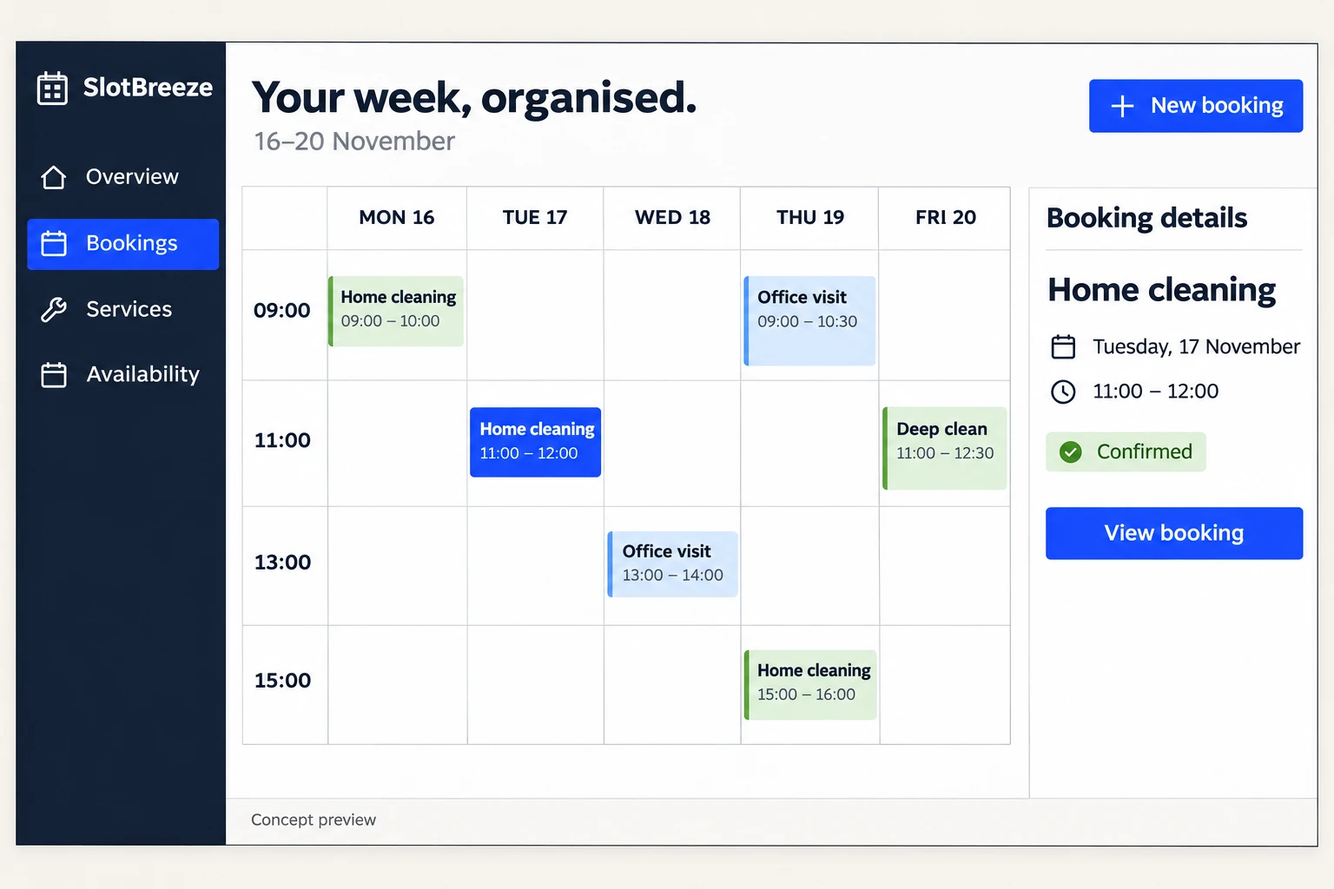
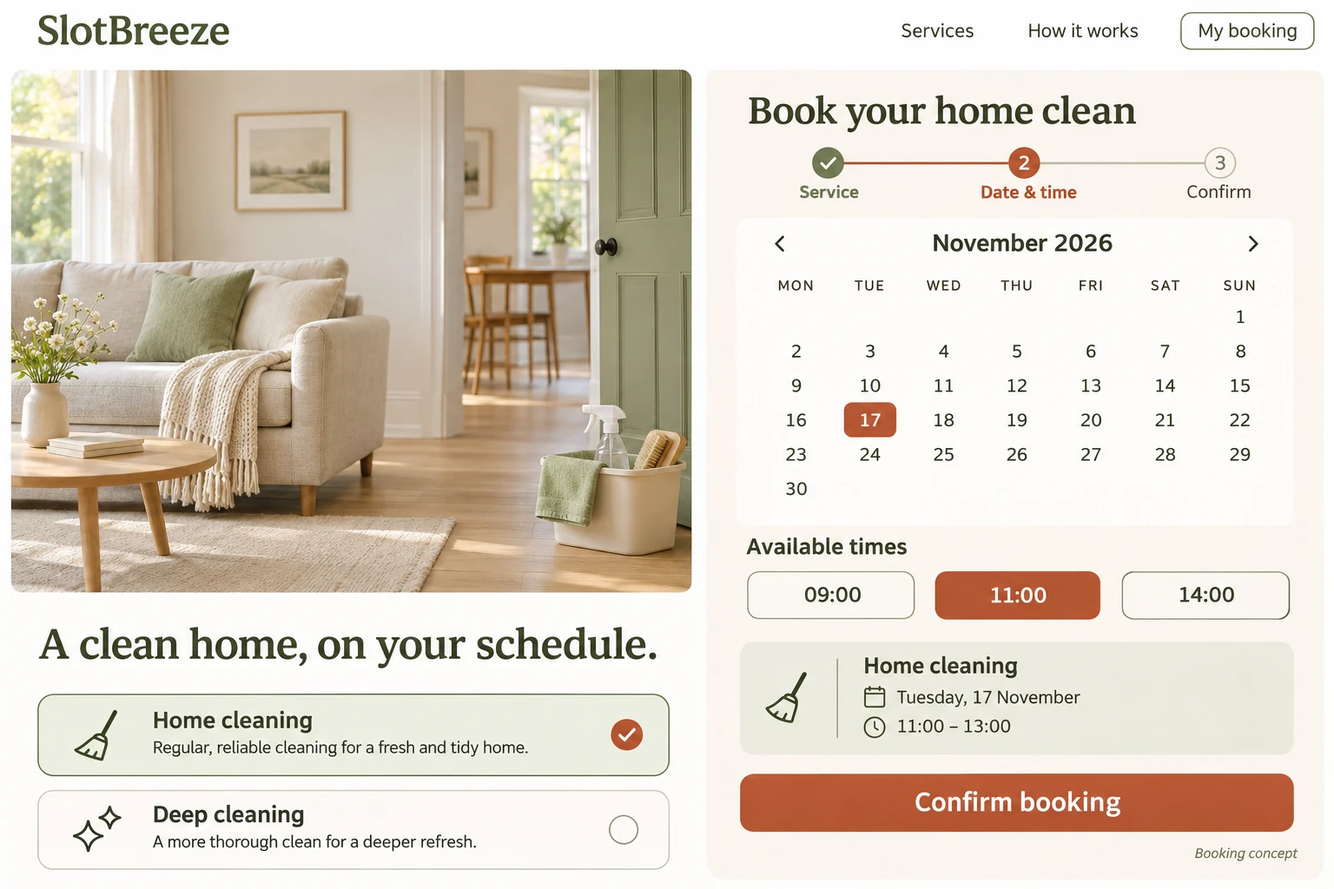
Give each project a distinct visual focused on its purpose

diff --git a/src/components/ui/ProjectPreview.tsx b/src/components/ui/ProjectPreview.tsx
@@ -5,19 +5,19 @@ import styles from "./project-content.module.css";
 const artwork: Record<Project["theme"], { file: string; alt: string }> = {
   booking: {
     file: "slotbreeze",
-    alt: "SlotBreeze concept: a weekly service calendar with appointment blocks and booking details.",
+    alt: "SlotBreeze concept: a home-service website with cleaning options, a date picker, available times, and booking confirmation.",
   },
   approval: {
     file: "proofhuddle",
-    alt: "ProofHuddle concept: a website design proof beside client feedback, version history, and approval actions.",
+    alt: "ProofHuddle concept: a design poster with numbered feedback pins, client comments, version history, and approval actions.",
   },
   enquiry: {
     file: "enquirywing",
-    alt: "EnquiryWing concept: an incoming enquiry, an organised brief, and a reply draft awaiting human review.",
+    alt: "EnquiryWing concept: an incoming message becomes an organised brief and a suggested reply awaiting human approval.",
   },
   monitoring: {
     file: "uptimeperch",
-    alt: "UptimePerch concept: website availability checks, response times, and incident and release history.",
+    alt: "UptimePerch concept: a dark monitoring console showing service availability, response times, incidents, and recovery.",
   },
 };
 

diff --git a/docs/project-artwork.md b/docs/project-artwork.md
@@ -1,16 +1,28 @@
 # Project concept artwork
 
-Generated on 17 November 2026 with the built-in image generation tool. These images illustrate planned interfaces for projects in development; they are not screenshots of released software. The same four artworks are used on homepage and directory cards and at larger size inside project detail previews.
+Generated on 17 November 2026 with the built-in image generation tool. These images illustrate projects in development; they are not screenshots of released software. Each project has its own visual identity and a composition chosen to explain its main purpose. The images appear on homepage and directory cards and at larger size inside project detail previews.
 
 ## Assets
 
-Final project images live in `public/projects/`. Each project has a `-concept.webp` version (1536 x 1024) and a `-concept-640.webp` card version (640 x 427). The component uses explicit dimensions, descriptive alternative text, lazy loading, and static WebP delivery, keeping images independent of a runtime optimisation service.
+Final images live in `public/projects/`. Each project has a `-concept.webp` image (1536 x 1024) and a `-concept-640.webp` card image (640 x 427). Explicit dimensions, descriptive alternative text, lazy loading, and static WebP delivery preserve layout and keep image delivery independent of a runtime optimisation service.
 
-The original generated PNGs are preserved under the local, ignored `artifacts/project-artwork/source/` directory. Only the optimised WebP assets and this prompt record are intended for version control. Private project PDFs remain excluded.
+| Project | Full image | Card image |
+| --- | --- | --- |
+| SlotBreeze | `public/projects/slotbreeze-concept.webp` | `public/projects/slotbreeze-concept-640.webp` |
+| ProofHuddle | `public/projects/proofhuddle-concept.webp` | `public/projects/proofhuddle-concept-640.webp` |
+| EnquiryWing | `public/projects/enquirywing-concept.webp` | `public/projects/enquirywing-concept-640.webp` |
+| UptimePerch | `public/projects/uptimeperch-concept.webp` | `public/projects/uptimeperch-concept-640.webp` |
+
+Original generated PNGs are preserved locally under the ignored `artifacts/project-artwork-v2/source/` directory. Only the optimised WebP assets and this prompt record are intended for version control. Private project PDFs remain excluded.
 
 ## Art direction
 
-Restrained, front-facing interface studies with a warm paper background, navy navigation, cobalt actions, readable typography, deliberate spacing, and workflow-specific details. No stock devices, floating UI fragments, decorative 3D objects, or neon effects.
+- SlotBreeze: a warm cream, sage, and terracotta home-service website showing the customer choosing a service, date, and available time before confirming a booking.
+- ProofHuddle: a charcoal and burnt-orange creative review workspace with a poster proof, anchored feedback, version context, and an explicit approval decision.
+- EnquiryWing: a lavender and plum workflow showing the original enquiry, extracted facts, missing details, a suggested response, and human approval.
+- UptimePerch: a dark forest monitoring console showing observed service health, response times, an interruption, recovery, and release context.
+
+The project subject takes priority over matching the portfolio website's palette. All visuals remain labelled as illustrative concepts, and all four projects remain in development.
 
 ## Final generation prompts
 
@@ -18,34 +30,48 @@ Restrained, front-facing interface studies with a warm paper background, navy na
 
 ```text
 Use case: ui-mockup.
-Asset type: a landscape portfolio project image for SanoraWorks, used both as a thumbnail and as a large illustrative interface concept.
-Create a carefully designed, credible software interface, photographed nowhere: a perfectly front-facing, flat high-resolution digital design. Landscape 3:2 composition. The application fills almost the whole image with a narrow 4 percent warm-paper surround, a crisp hairline outer border, and just a subtle contact shadow. The visual quality should come from exceptional typography, deliberate spacing, well aligned columns, strong information hierarchy, and useful details. Editorial restraint. Warm off-white #F5F4EF background, clean white panels, very dark navy #172337 text, vivid cobalt #2D4FFF for selected actions, muted slate, tiny sage green and amber status accents only when meaningful. Use straightforward modern humanist sans-serif type, with small monospaced dates and times. Sharp legible typography. Mostly square corners or at most 4px radius. Realistic believable sample data but no personal contact information. Avoid decorative gradients, dark sci-fi dashboards, neon glow, glassmorphism, floating UI shards, isometric/perspective views, laptops or phones, stock photos, 3D objects, mascots, sparkles, giant meaningless KPI numbers, fake enterprise logos, watermarks, illegible lorem ipsum, and excessive pill cards. Do not place marketing slogans outside the application. This is an independent product concept, not a claim of a released product.
-Subject: SlotBreeze, service appointment booking for a small home-service company. Exact product name "SlotBreeze" in the top left beside a simple four-square calendar mark. A slim navy left navigation with readable labels "Overview", "Bookings", "Services", "Availability". Main warm white workspace is dominated by a beautifully proportioned weekly appointment calendar, Monday through Friday, with four visible time rows. Heading "Your week, organised." and a small date "16–20 November". Calendar columns "MON 16", "TUE 17", "WED 18", "THU 19", "FRI 20"; time labels "09:00", "11:00", "13:00", "15:00". Six restrained appointment blocks, each spanning plausible time ranges, labelled "Home cleaning", "Deep clean", "Office visit". Leave substantial empty calendar space. Cobalt one selected appointment, others very pale blue and sage. Right-hand narrow details panel "Booking details", "Home cleaning", "Tuesday, 17 November", "11:00 – 12:00", a small status "Confirmed", and a clean primary button "View booking". Top right small "New booking" action. Very small "Concept preview" label in application footer. Compose for instant recognition as booking software at thumbnail size; the calendar is the hero. Exact short text, no additional sprawling copy.
+Asset type: a project-specific landscape image for a software portfolio, reused in a thumbnail and a large illustrative product preview.
+Create a complete original, carefully art-directed 1536 x 1024 landscape digital product visual, 3:2 aspect ratio. It must communicate the product's actual purpose at a glance. Use a flat front-facing interface, edge-to-edge with a narrow 2 percent surround. This is a designed software concept, not an actual released application screenshot. Information hierarchy, precise readable typography, thoughtful spacing, realistic workflow content, and original graphic design are essential. No need to match a blue portfolio website. No generic common dashboard template, no pointless KPI blocks, no floating UI shards, no device frames, no laptops, no people with malformed hands, no robots, no AI star symbols, no glowing particles, no glassmorphism, no decorative rainbow gradients, no random objects, no fake corporate logos, no watermark. Use the exact product name correctly. Keep body copy short and legible. Do not add a promotional headline outside the application.
+Project: SlotBreeze, a service business website with online appointment booking. Show the CUSTOMER booking experience, not an internal calendar dashboard.
+Visual identity: warm cream, muted sage, rich terracotta actions, soft daylight, calm approachable typography. A home-services product that feels tangible and welcoming.
+Layout: a minimal white masthead with exact wordmark "SlotBreeze", small navigation "Services", "How it works", "My booking". Below, two balanced halves. Left: an editorial photograph of a naturally lit tidy living room, pale oak furniture, linen sofa, a clean wooden floor, a single folded cloth and an understated cleaning caddy near the doorway; believable architectural photography without people, CGI gloss, or excessive plants. The photograph occupies the upper left and is neatly framed as part of the business website. Under it, the concise heading "A clean home, on your schedule." and two short service rows "Home cleaning" and "Deep cleaning", with simple line icons and a small selected state on Home cleaning.
+Right: a prominent well-crafted booking panel titled "Book your home clean". A three-step line "Service / Date & time / Confirm", with Date & time selected. A proper November 2026 month calendar grid with weekday headings and the 17th selected in terracotta. Below it three clear available-time buttons "09:00", "11:00", "14:00", with 11:00 selected. Small booking summary "Home cleaning", "Tuesday, 17 November", "11:00 - 13:00", then one solid terracotta action "Confirm booking". Avoid prices, payment widgets or staff dashboards. Tiny footer "Booking concept". Ensure the service, available time, and confirmation journey dominate. It must unmistakably look like useful home-service booking software.
 ```
 
 ### proofhuddle
 
 ```text
 Use case: ui-mockup.
-Asset type: a landscape portfolio project image for SanoraWorks, used both as a thumbnail and as a large illustrative interface concept.
-Create a carefully designed, credible software interface, photographed nowhere: a perfectly front-facing, flat high-resolution digital design. Landscape 3:2 composition. The application fills almost the whole image with a narrow 4 percent warm-paper surround, a crisp hairline outer border, and just a subtle contact shadow. The visual quality should come from exceptional typography, deliberate spacing, well aligned columns, strong information hierarchy, and useful details. Editorial restraint. Warm off-white #F5F4EF background, clean white panels, very dark navy #172337 text, vivid cobalt #2D4FFF for selected actions, muted slate, tiny sage green and amber status accents only when meaningful. Use straightforward modern humanist sans-serif type, with small monospaced dates and times. Sharp legible typography. Mostly square corners or at most 4px radius. Realistic believable sample data but no personal contact information. Avoid decorative gradients, dark sci-fi dashboards, neon glow, glassmorphism, floating UI shards, isometric/perspective views, laptops or phones, stock photos, 3D objects, mascots, sparkles, giant meaningless KPI numbers, fake enterprise logos, watermarks, illegible lorem ipsum, and excessive pill cards. Do not place marketing slogans outside the application. This is an independent product concept, not a claim of a released product.
-Subject: ProofHuddle, a client feedback and approval workspace for a small design agency. Exact product name "ProofHuddle" top left beside a minimal overlapping-page mark. Slim navy left navigation "Projects", "For review", "Approved", "Archive". Main title "A clear path to approval." with project label "North Studio / Website refresh". The main two-thirds contains a deliverable panel showing a tasteful editorial website design proof: a cream design sheet with a large black serif heading "Spaces for good work.", a simple architectural black-and-white line drawing of a chair and window, a thin cobalt rule and plenty of negative space. The design proof should look like a graphic designer's actual work, not a generic AI wireframe. Small heading above "Homepage concept" and version tabs "V1", "V2", selected "V3". A right-side feedback panel with exact labels "Client feedback", "The headline reads well.", "Please give the image more space.", reviewer initials in small plain circles, and a modest timestamp "Today". At bottom right an explicit cobalt button "Approve version" beside a secondary "Request changes". A thin bottom activity strip "V1 shared  /  V2 revised  /  V3 in review" with understated dots. Very small "Concept preview" footer. The design proof, version context, and clear review decision form the composition. No kanban board, no invoice widgets, no meaningless charts.
+Asset type: a project-specific landscape image for a software portfolio, reused in a thumbnail and a large illustrative product preview.
+Create a complete original, carefully art-directed 1536 x 1024 landscape digital product visual, 3:2 aspect ratio. It must communicate the product's actual purpose at a glance. Use a flat front-facing interface, edge-to-edge with a narrow 2 percent surround. This is a designed software concept, not an actual released application screenshot. Information hierarchy, precise readable typography, thoughtful spacing, realistic workflow content, and original graphic design are essential. No need to match a blue portfolio website. No generic common dashboard template, no pointless KPI blocks, no floating UI shards, no device frames, no laptops, no people with malformed hands, no robots, no AI star symbols, no glowing particles, no glassmorphism, no decorative rainbow gradients, no random objects, no fake corporate logos, no watermark. Use the exact product name correctly. Keep body copy short and legible. Do not add a promotional headline outside the application.
+Project: ProofHuddle, client feedback, revisions, and approval of a specific deliverable version. The image must immediately communicate CREATIVE WORK UNDER REVIEW.
+Visual identity: charcoal creative workspace, warm white proof, burnt-orange controls and annotation markers; editorial design studio aesthetic. Crisp typography. A distinct review canvas, not a calendar or generic business dashboard.
+Layout: full-width narrow charcoal toolbar with exact product name "ProofHuddle" in warm white at left, project title "Studio launch / Poster review" near center, and version control "V1   V2   V3" with V3 clearly selected at right. The main 70 percent is a dark charcoal review canvas with a large beautiful flat artboard centered on it. The proof is a genuinely art-directed typographic exhibition poster: large black serif letters "FORM & FIELD", cream stock, a terracotta geometric arch, a small moss-green circle, fine editorial spacing, small text "Design exhibition / 18-22 June". The poster must look intentional and memorable. Two small orange numbered comment pins labelled "1" and "2" sit on precise locations on the poster. Do not obscure the poster heading.
+The right 30 percent is a warm white client review sidebar titled "Feedback on V3". Two clearly separated comments with plain initial circles: "ML" beside "The composition works well." and "JR" beside "Can we give the date more space?" A small reply field below "Add feedback". The lower right approval section shows exact label "Decision for version 3", a dominant burnt-orange button "Approve version", and a quiet secondary "Request changes". Across the bottom of canvas a compact version history "V1 shared / V2 revised / V3 awaiting approval". Tiny "Concept preview" footer. No stock photography or charts. The visual story must be a design proof, anchored comments, versioning and an explicit final decision.
 ```
 
 ### enquirywing
 
 ```text
 Use case: ui-mockup.
-Asset type: a landscape portfolio project image for SanoraWorks, used both as a thumbnail and as a large illustrative interface concept.
-Create a carefully designed, credible software interface, photographed nowhere: a perfectly front-facing, flat high-resolution digital design. Landscape 3:2 composition. The application fills almost the whole image with a narrow 4 percent warm-paper surround, a crisp hairline outer border, and just a subtle contact shadow. The visual quality should come from exceptional typography, deliberate spacing, well aligned columns, strong information hierarchy, and useful details. Editorial restraint. Warm off-white #F5F4EF background, clean white panels, very dark navy #172337 text, vivid cobalt #2D4FFF for selected actions, muted slate, tiny sage green and amber status accents only when meaningful. Use straightforward modern humanist sans-serif type, with small monospaced dates and times. Sharp legible typography. Mostly square corners or at most 4px radius. Realistic believable sample data but no personal contact information. Avoid decorative gradients, dark sci-fi dashboards, neon glow, glassmorphism, floating UI shards, isometric/perspective views, laptops or phones, stock photos, 3D objects, mascots, sparkles, giant meaningless KPI numbers, fake enterprise logos, watermarks, illegible lorem ipsum, and excessive pill cards. Do not place marketing slogans outside the application. This is an independent product concept, not a claim of a released product.
-Subject: EnquiryWing, an AI-assisted business enquiry inbox with human-reviewed replies. Exact product name "EnquiryWing" top left beside a simple folded-message mark. Slim navy left navigation "Inbox", "Drafts", "Contacted", "Settings". Main title "From enquiry to next step." At left a compact inbox list of three enquiries with short clear subjects "A booking website", "Brand website refresh", "Customer portal"; the first is selected cobalt-tinted. Main content shows two useful aligned panels: "Original enquiry" with short readable text "We run a cleaning company and need customers to book online. Could you help us get started?" and "Enquiry brief" with a neat key-value list "Service  Web development", "Budget  Not provided", "Timeline  Not provided", plus a small outlined label "Needs review". Below, a large calm white "Reply draft" area containing exactly "Thanks for getting in touch. Which services should customers be able to book, and do you have an existing website?" A small note "Review before sending." and cobalt primary action "Review reply". A subtle numbered progress strip "Received / Organised / Ready for review". Do not show automatic sending, lead scores, invented budgets, robots, AI stars or brains. Very small "Concept preview" footer. The image must clearly communicate organised enquiries and human review with comfortable readable type rather than dense tiny text.
+Asset type: a project-specific landscape image for a software portfolio, reused in a thumbnail and a large illustrative product preview.
+Create a complete original, carefully art-directed 1536 x 1024 landscape digital product visual, 3:2 aspect ratio. It must communicate the product's actual purpose at a glance. Use a flat front-facing interface, edge-to-edge with a narrow 2 percent surround. This is a designed software concept, not an actual released application screenshot. Information hierarchy, precise readable typography, thoughtful spacing, realistic workflow content, and original graphic design are essential. No need to match a blue portfolio website. No generic common dashboard template, no pointless KPI blocks, no floating UI shards, no device frames, no laptops, no people with malformed hands, no robots, no AI star symbols, no glowing particles, no glassmorphism, no decorative rainbow gradients, no random objects, no fake corporate logos, no watermark. Use the exact product name correctly. Keep body copy short and legible. Do not add a promotional headline outside the application.
+Project: EnquiryWing, an AI-assisted enquiry organiser that prepares a useful reply for a HUMAN to approve. The image must convey a progression from a messy incoming request to organised facts to a reviewed response.
+Visual identity: pale lavender and warm white surfaces, dark plum typography, deep purple actions, a small muted golden accent on the human-review stage. Friendly intelligent business software with editorial discipline. No dark left navigation bar.
+Layout: a slim top header with exact wordmark "EnquiryWing", short navigation "Enquiries", "Replies", "Settings", small user-initial circle "AK". Main page title "A useful next step for every enquiry." Underneath create three large aligned vertical columns with substantial readable content. Numbered section headers with a thin, subtle connecting line or arrows between them: "1 / Incoming enquiry", "2 / Organised brief", "3 / Human review".
+First column resembles a simple incoming message: sender label "New website enquiry", subject "Can customers book online?", and text exactly "We run a cleaning business and want customers to book a service on our website. Where should we start?" A small footer "Original message".
+Second column has a precise structured brief: "Service" followed by "Booking website", "Budget" followed by "Not provided", "Timeline" followed by "Not provided". A distinct small section "Questions to ask" with two lines "Which services can customers book?" and "Do you have an existing website?". This must look like clear extraction of the actual message, not invented information or lead scoring.
+Third column is slightly visually emphasised with a very pale golden header label "Awaiting your review". Main label "Suggested reply". Short draft text exactly "Thanks for getting in touch. Which services would you like customers to book, and do you have an existing website?" Below, an unobtrusive human reviewer row "AK / Business owner", a small editable pencil icon, and a deep purple button "Approve reply". Small explanatory line "You review every reply before it is sent." Tiny footer "Concept preview". No automatic sending claims, confidence percentages, invented budgets, robotic characters, or email platform logos. Make the human decision at the end of the workflow visually obvious.
 ```
 
 ### uptimeperch
 
 ```text
 Use case: ui-mockup.
-Asset type: a landscape portfolio project image for SanoraWorks, used both as a thumbnail and as a large illustrative interface concept.
-Create a carefully designed, credible software interface, photographed nowhere: a perfectly front-facing, flat high-resolution digital design. Landscape 3:2 composition. The application fills almost the whole image with a narrow 4 percent warm-paper surround, a crisp hairline outer border, and just a subtle contact shadow. The visual quality should come from exceptional typography, deliberate spacing, well aligned columns, strong information hierarchy, and useful details. Editorial restraint. Warm off-white #F5F4EF background, clean white panels, very dark navy #172337 text, vivid cobalt #2D4FFF for selected actions, muted slate, tiny sage green and amber status accents only when meaningful. Use straightforward modern humanist sans-serif type, with small monospaced dates and times. Sharp legible typography. Mostly square corners or at most 4px radius. Realistic believable sample data but no personal contact information. Avoid decorative gradients, dark sci-fi dashboards, neon glow, glassmorphism, floating UI shards, isometric/perspective views, laptops or phones, stock photos, 3D objects, mascots, sparkles, giant meaningless KPI numbers, fake enterprise logos, watermarks, illegible lorem ipsum, and excessive pill cards. Do not place marketing slogans outside the application. This is an independent product concept, not a claim of a released product.
-Subject: UptimePerch, calm practical website monitoring and incident history. Exact product name "UptimePerch" top left beside a simple three-bar signal mark. Slim navy left navigation "Overview", "Monitors", "Incidents", "Releases". Main heading "A clear view of what runs." Top-right small date range "Last 24 hours" and quiet "Add monitor" action. Three stacked service rows "Company website", "Customer portal", "Booking service", each with a small meaningful green or amber status dot, short status "Operational" or "Recovered", a subtle horizontal strip of about 24 tiny uptime rectangles, and modest response times "184 ms", "236 ms", "192 ms". The middle row has three amber rectangles marking one short incident; all other windows sage, not neon. Lower left an elegantly plotted restrained cobalt response-time line on an off-white graph, readable y-axis "ms" and x-axis labels "00:00", "06:00", "12:00", "18:00", with heading "Response time". Lower right "Incident history", "Customer portal", "Recovered at 11:42", and "Release activity" with one commit-like label "Production / v0.3.2". Small footer text "Last checked 30 seconds ago" and "Concept preview". No fictional 99.99% uptime KPI, no globe, no servers in clouds, no circuit board imagery. The service rows and careful chart should read as an actual understated monitoring product.
+Asset type: a project-specific landscape image for a software portfolio, reused in a thumbnail and a large illustrative product preview.
+Create a complete original, carefully art-directed 1536 x 1024 landscape digital product visual, 3:2 aspect ratio. It must communicate the product's actual purpose at a glance. Use a flat front-facing interface, edge-to-edge with a narrow 2 percent surround. This is a designed software concept, not an actual released application screenshot. Information hierarchy, precise readable typography, thoughtful spacing, realistic workflow content, and original graphic design are essential. No need to match a blue portfolio website. No generic common dashboard template, no pointless KPI blocks, no floating UI shards, no device frames, no laptops, no people with malformed hands, no robots, no AI star symbols, no glowing particles, no glassmorphism, no decorative rainbow gradients, no random objects, no fake corporate logos, no watermark. Use the exact product name correctly. Keep body copy short and legible. Do not add a promotional headline outside the application.
+Project: UptimePerch, website availability monitoring, incident detection, recovery, and release visibility. The image must read immediately as a purposeful monitoring console watching real services.
+Visual identity: deep forest-black #10211D background, warm off-white type, quiet mint and muted lime status marks, amber only for incident history. Serious restrained operations software. Dark theme done with excellent contrast and sparse borders, no neon glow, no gradients, no cyberpunk look. Refined monospaced numbers with clean sans-serif section titles.
+Layout: narrow full-width top bar with exact wordmark "UptimePerch" and navigation "Overview", "Monitors", "Incidents", "Releases". Large but modest status line with a mint dot "All services responding" and smaller timestamp "Last checked 30 seconds ago". Dominant central service table: columns "Service", "Last 24 hours", "Response". Three rows "Company website", "Customer portal", "Booking API"; each has a long narrow strip of 24 little tick rectangles and a response time "184 ms", "236 ms", "192 ms". Mostly muted mint ticks. Customer portal has three amber ticks near the middle followed by mint recovery ticks. Status next to its name "Recovered". This is historical observed check data, no invented uptime percentage.
+Below, left 60 percent contains a precise line graph titled "Response time", a low mint line with one meaningful amber-highlighted spike, y-axis in milliseconds, x-axis "00:00", "06:00", "12:00", "18:00". Right 40 percent an elegant incident-and-release timeline showing exact entries "10:58 / Production release v0.3.2", "11:07 / Portal interruption detected", "11:42 / Service recovered". Quiet thin connecting rule, mint recovery dot and amber incident dot. Bottom a slim link row "View incident history" and "Public status page". Tiny "Concept preview" footer. No money numbers, server photographs, clouds, globes, circuitry, random gauges, or unrelated analytics. The service health, interruption and recovery are the story.
 ```
